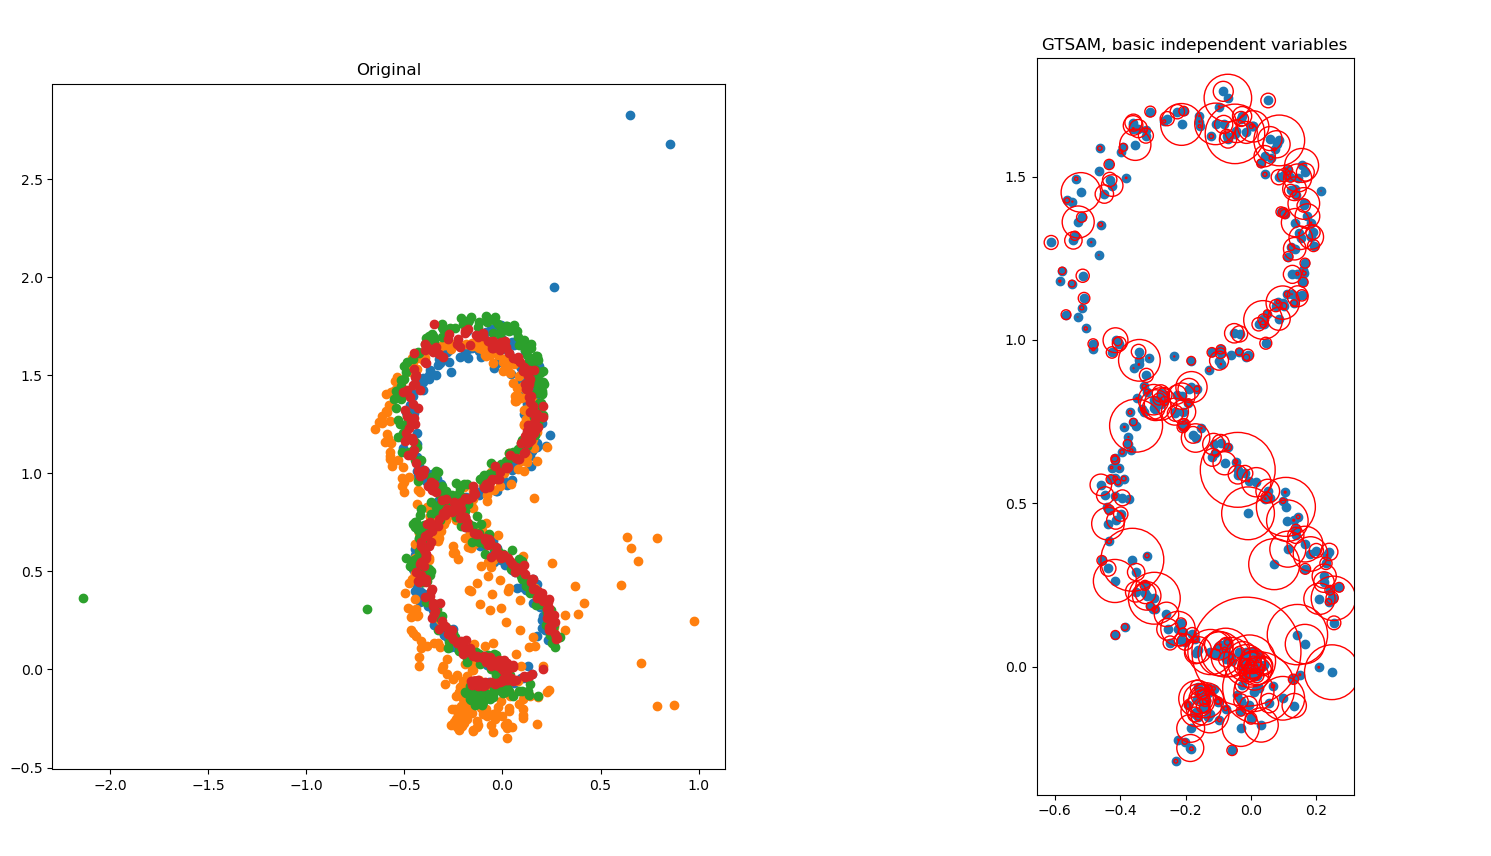
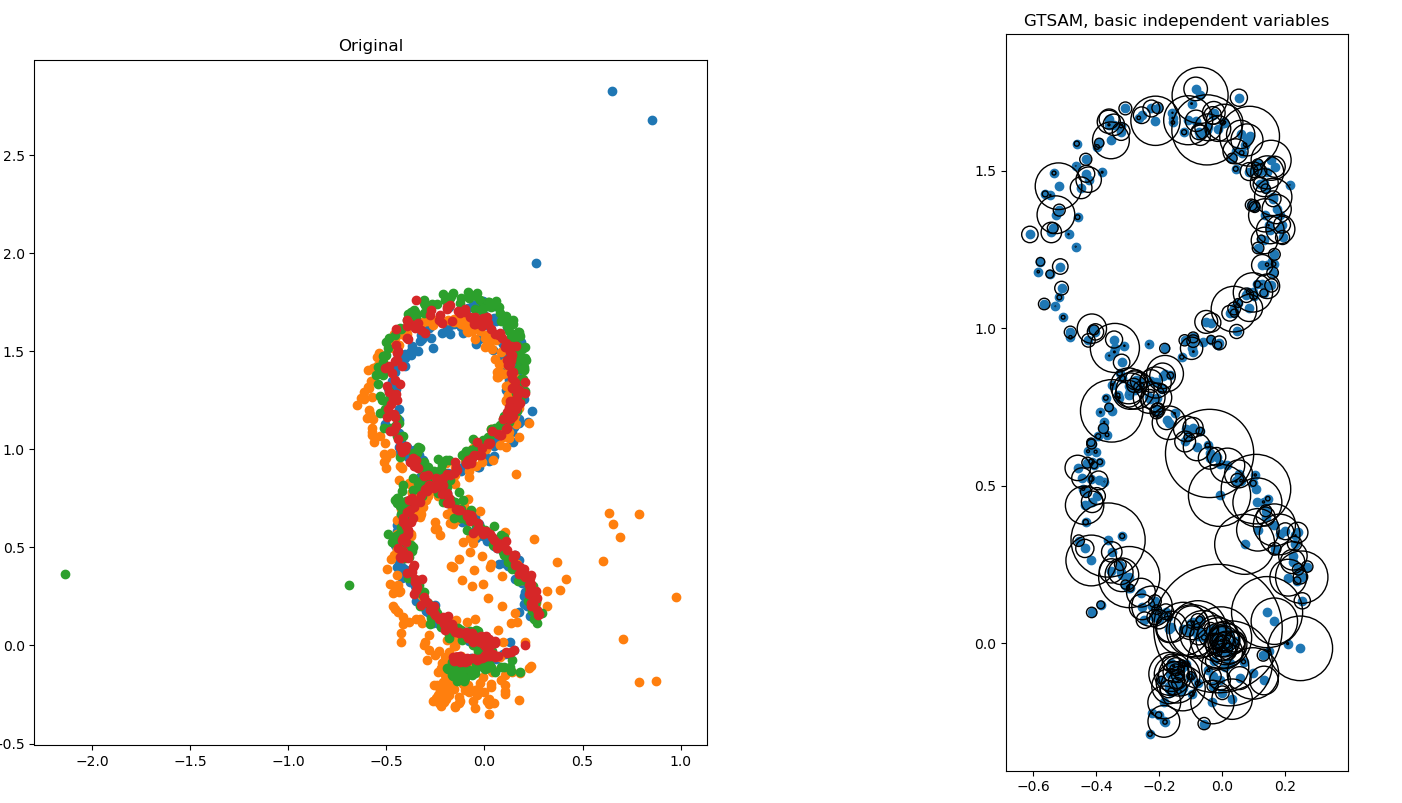
Better diagrams, again

diff --git a/gtsam_landmark.py b/gtsam_landmark.py
@@ -4,6 +4,7 @@ factors and having GTSAM solve for the camera position, instead of using dt_apri
 positional estimates to calculate our position.
 """
 import gtsam
+import gtsam.utils.plot as gtplot
 import numpy as np
 import json
 from matplotlib import pyplot as plt
@@ -46,6 +47,10 @@ def main():
 
         # Symbol for current camera pos
         cam_sym = gtsam.symbol('x', timestep_num)
+        # Prior to keep camera near previous position
+        if timestep_num > 0:
+            graph.add(gtsam.BetweenFactorPose3(cam_sym, gtsam.symbol('x', timestep_num - 1),
+                                               gtsam.Pose3(), gtsam.noiseModel.Diagonal.Sigmas(np.array([0.1] * 6))))
 
         # Add each detected tag's pose as a landmark factor to the graph:
         for det in detections:
@@ -104,10 +109,10 @@ def main():
         result_pts.append(result.atPose3(gtsam.symbol('x', i)).translation())
     result_pts = np.array(result_pts)
     ax2.scatter(result_pts[:, 0], result_pts[:, 1])
-    # error circles
+    # error ellipses
     for i, pose in enumerate(result_pts):
-        confidence = np.sqrt(marginals.marginalCovariance(gtsam.symbol('x', i))[0, 0])
-        ax2.add_artist(plt.Circle(pose[:2], confidence, color='r', fill=False))
+        gtplot.plot_covariance_ellipse_2d(ax2, pose[:2], marginals.marginalCovariance(gtsam.symbol('x', i))[:2, :2])
+
     # make axes same scale
     ax2.set_aspect('equal', adjustable='box')
 

diff --git a/gtsam_basic_noise.py b/gtsam_basic_noise.py
@@ -4,6 +4,7 @@ factors and having GTSAM solve for the camera position, instead of using dt_apri
 positional estimates to calculate our position.
 """
 import gtsam
+import gtsam.utils.plot as gtplot
 import numpy as np
 import json
 from matplotlib import pyplot as plt
@@ -94,8 +95,7 @@ def main():
     ax2.scatter(result_pts[:, 0], result_pts[:, 1])
     # error circles
     for i, pose in enumerate(result_pts):
-        confidence = np.sqrt(marginals.marginalCovariance(gtsam.symbol('x', i))[0, 0])
-        ax2.add_artist(plt.Circle(pose[:2], confidence, color='r', fill=False))
+        gtplot.plot_covariance_ellipse_2d(ax2, pose[:2], marginals.marginalCovariance(gtsam.symbol('x', i))[:2, :2])
     # make axes same scale
     ax2.set_aspect('equal', adjustable='box')
 

diff --git a/README.md b/README.md
@@ -72,7 +72,7 @@ localization data than we could with a single AprilTag alone.  To do this, we en
 
 * `apriltag_baseline.py`: This is our baseline detector.  It doesn't use GTSAM at all, and just computes pose independently for each of the four visible tags.  It also plots the mean of the four camera positions.
 * `gtsam_basic_noise.py`: This is the first attempt at using GTSAM.  It still computes the camera pose independently for each of the four visible tags, but then uses GTSAM to combine the four poses into a single pose estimate.  It also propigates the reported noise from the AprilTag detections into the GTSAM graph.
-* `gtsam_landmark.py`: This is the final version of our program.  Instead of computing the camera pose directly from the tag detection, it instead creates 4 nodes in the graph for the tag positions, then uses the reported position and orientation of the tags relative to the camera to create a BearingRangeFactor3D between the camera and the tag.  It then uses GTSAM to estimate the camera pose and the tag positions simultaneously.
+* `gtsam_landmark.py`: This is the final version of our program.  Instead of computing the camera pose directly from the tag detection, it instead creates 4 nodes in the graph for the tag positions, then uses the reported position and orientation of the tags relative to the camera to create a BearingRangeFactor3D between the camera and the tag.  It then uses GTSAM to estimate the camera pose for all points simultaneously.
 
 ![Graphs](pictures/diagram.png)
 
@@ -88,10 +88,10 @@ Measure the side length of the long side of the board in meters, then plug it in
 You'll then take a video of the chessboard with your camera and run the `calibrate_camera.py` script on it.  This gives
 you values for the camera intrinsics (fx, fy, cx, cy) which can be put into the `apriltag_baseline.py` script.
 
-Once you've calibrated your camera, the next step will be printing out and mounting the AprilTags.  They don't need
-to be mounted in a 1x1 meter square like we did; they just need to be in a fixed configuration relative to each other.
-You'll need to measure the side length of the tags in meters, and plug that into the `apriltag_baseline.py` script as 
-well.
+Once you've calibrated your camera, the next step will be printing out and mounting the AprilTags.  They should be mounted
+in as close to a 1x1 meter square as possible; we used a plumb line, meter stick, and level to make this easier. 
+You'll then need to measure the side length of the tags in meters, and plug that into the `apriltag_baseline.py` script
+as well.
 
 Once you've done all of the above setup, you should be ready to run the actual scripts!  Running `apriltag_baseline.py`
 will plot baseline results; `gtsam_basic_noise.py` will plot the results of the first GTSAM implementation, and
@@ -108,10 +108,12 @@ will plot baseline results; `gtsam_basic_noise.py` will plot the results of the 
 #### GTSAM Landmark
 ![GTSAM Landmark](pictures/gtsam_landmarks.png)
 
-Our results were mixed.  While GTSAM was able to help us reject outliers, it also didn't perform nearly as much smoothing
-as we got with a simple mean of the four tag positions.  This may be because we didn't set up our graph with enough
-factors; in both implementations, there was only one factor per tag per frame, and we computed the tag pose *before*
-feeding it to GTSAM.
+Our initial results are very promising.  As expected, the baseline results from the individual tags are very noisy.
+Taking the mean between the four visible tags actually works surprisingly well at smoothing out the data, but it doesn't
+take care of the outliers or take into account the error reported from the detector.  Our first attempt at using GTSAM
+to combine the data does a good job of smoothing out the data, but doesn't really perform any better than the baseline 
+tag mean.  Our final implementation, however, does a much better job.  It's able to smooth out the data, take into account
+the reported error, and also handle outliers.  
 
 Additionally, we didn't have enough time to implement the IMU factor, like we originally hoped to.  Due to unforeseen
 issues setting up the Raspberry Pi, we weren't able to get the IMU data in time to implement it.  We believe that this
